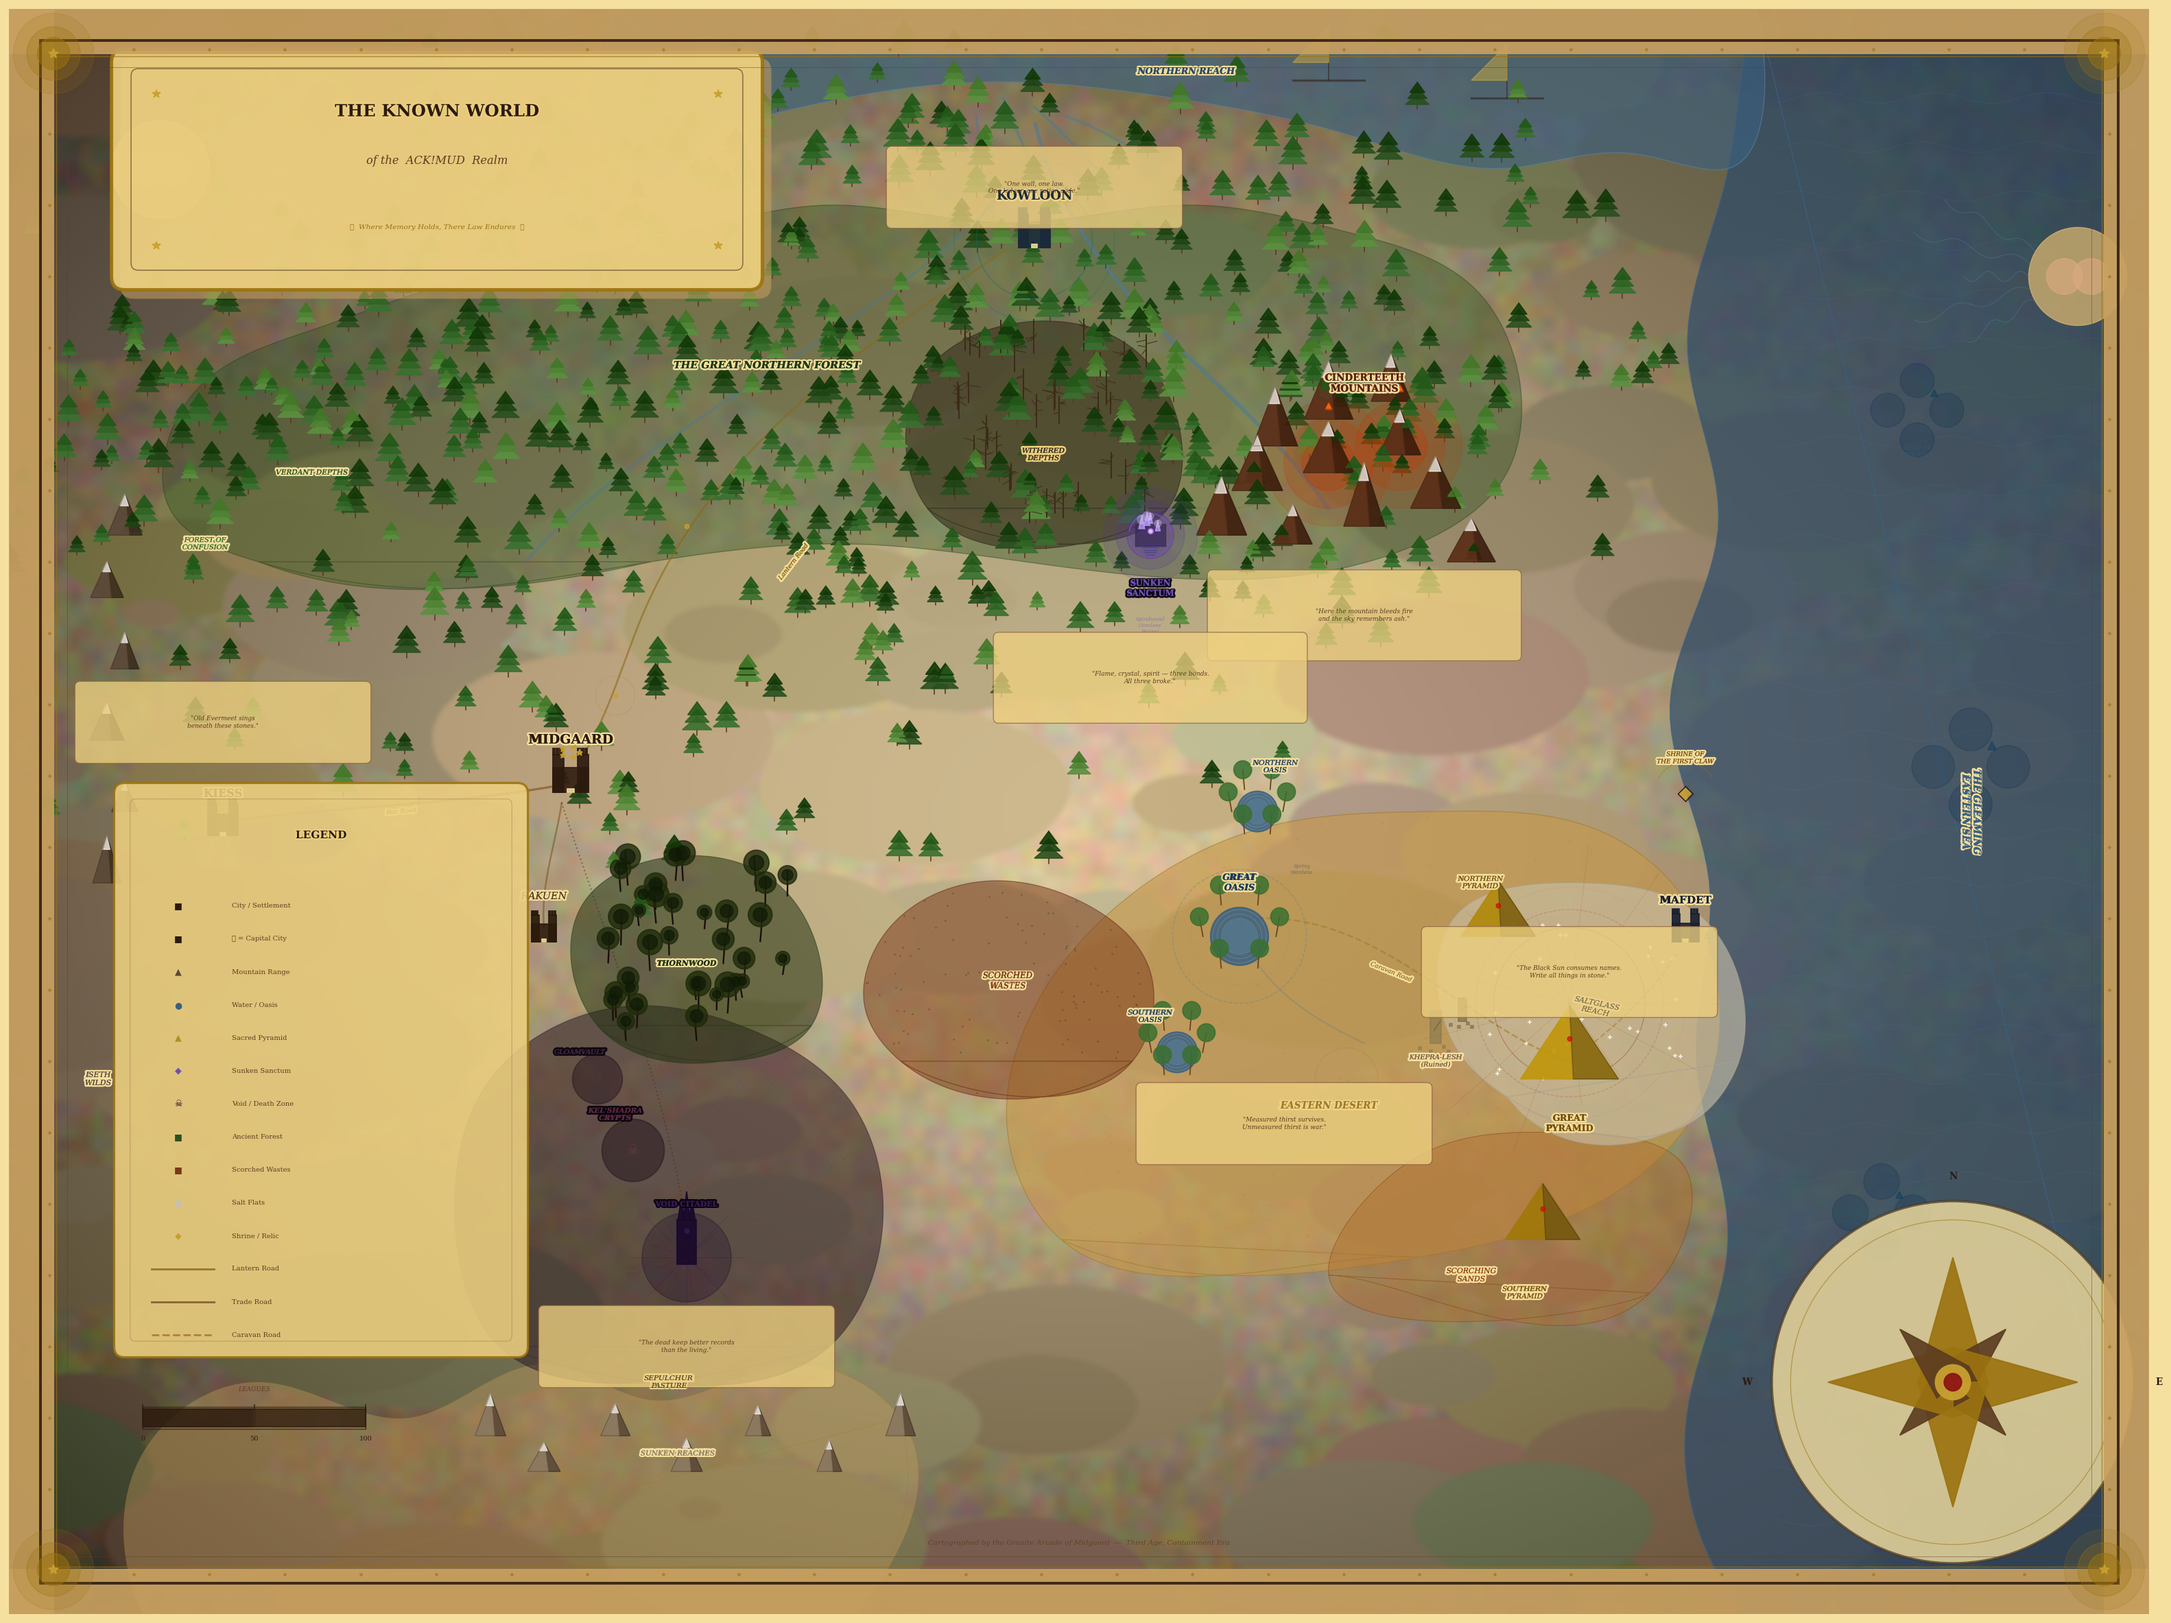
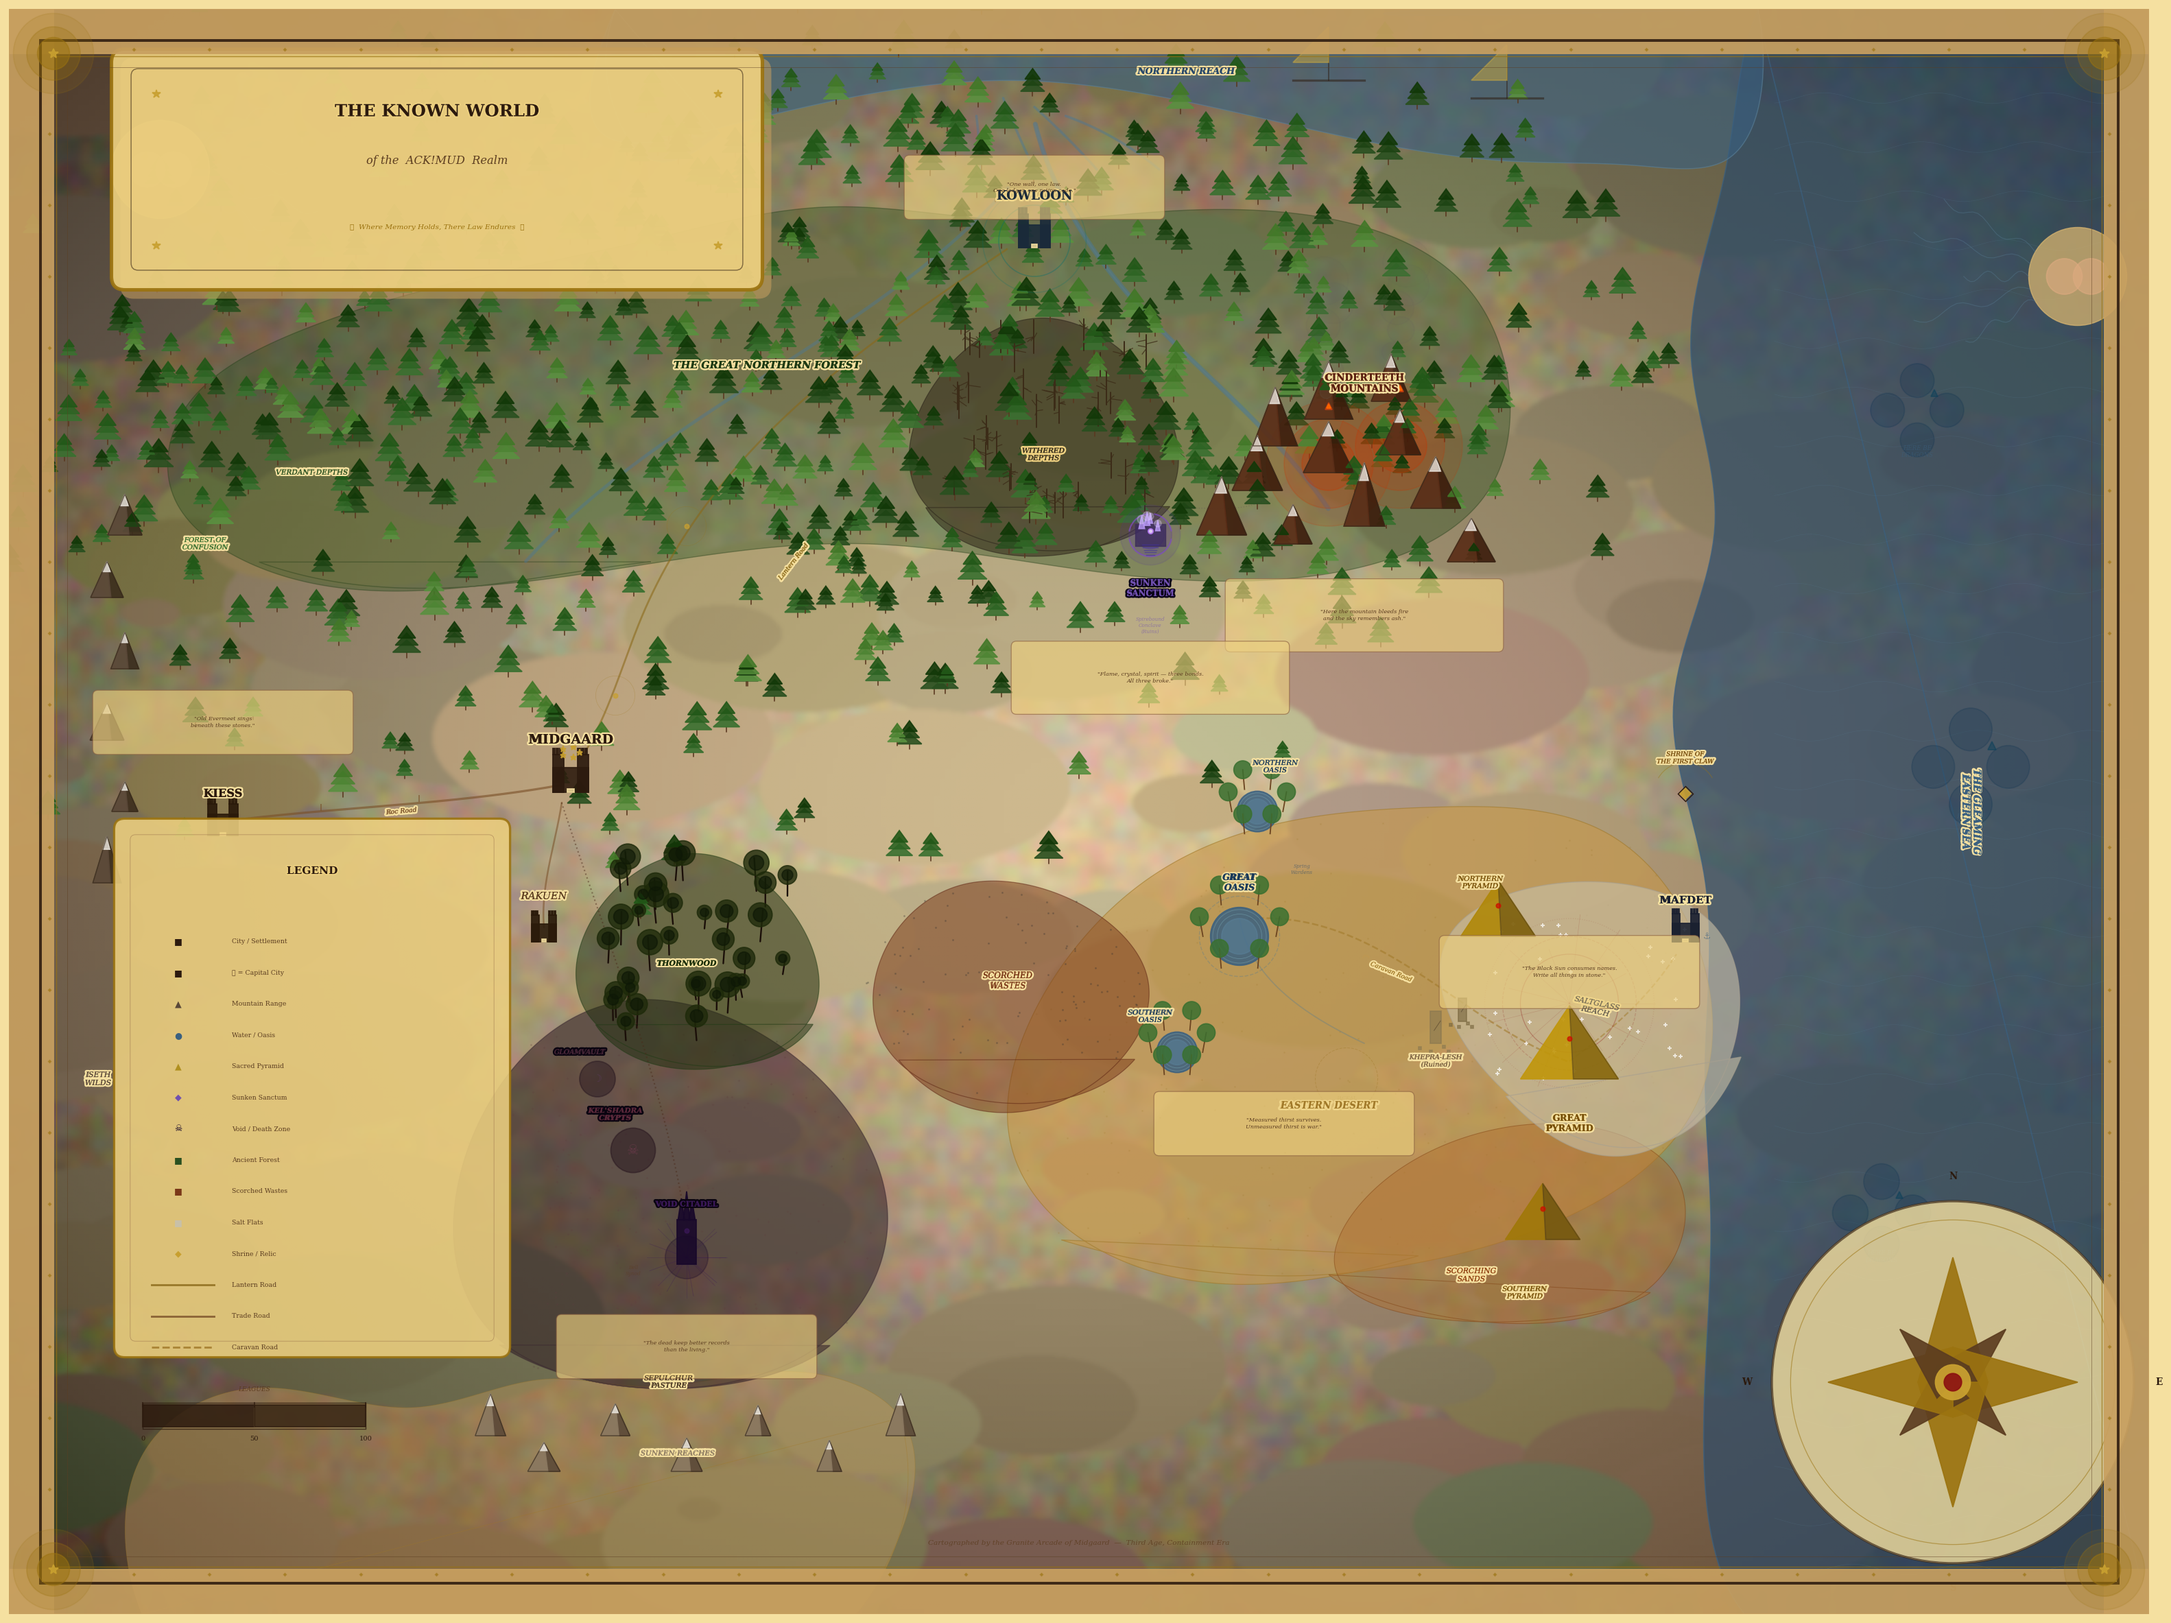
Apply visual polish fixes to world map generator
- Increase spline tension on terrain fills to preserve geographic shapes
- Reduce oversized glow halos (void citadel, pyramids, Sanctum, deepwell)
- Tighten Neon Covenant rings on Kowloon, Black Sun Shard corona
- Compact legend and lore scroll boxes
- Increase river line widths for visibility
- Improve mountain outline weight

https://claude.ai/code/session_01DAjEaRhYw3wve2juJ6T1aR

diff --git a/docs/generate_world_map.py b/docs/generate_world_map.py
@@ -231,7 +231,7 @@ def mountain(ax, cx, cy, h=5.0, w=4.5, snow_frac=0.28, zorder=11,
     # Outline
     ax.add_patch(plt.Polygon([peak, left, right],
                               fill=False, edgecolor=MTN_DARK,
-                              linewidth=0.5, alpha=0.5, zorder=zorder+2))
+                              linewidth=0.8, alpha=0.7, zorder=zorder+2))
 
 def mountain_range(ax, peaks, base_h=5.0, base_w=4.5, scatter=True,
                    zorder=11, **kw):
@@ -480,7 +480,7 @@ def compass_rose(ax, cx, cy, size=9):
         ly = cy + (size*1.65) * math.cos(math.radians(ang))
         ax.text(lx, ly, label, fontsize=7.5, fontweight='bold',
                 color=INK, ha='center', va='center',
-                fontfamily='serif', zorder=33)
+                fontfamily='DejaVu Serif', zorder=33)
     # Center jewel
     ax.add_patch(plt.Circle((cx,cy), size*0.14,
                              color=GOLD_LT, alpha=0.95, zorder=34))
@@ -536,22 +536,22 @@ def label(ax, x, y, text, size=7, col=INK, style='normal', weight='normal',
     oc = outline_col if outline_col else PARCH_PALE
     ax.text(x, y, text, fontsize=size, color=col, style=style,
             fontweight=weight, rotation=rot, zorder=zorder-1,
-            ha=ha, va=va, fontfamily='serif',
+            ha=ha, va=va, fontfamily='DejaVu Serif',
             path_effects=[pe.withStroke(linewidth=2.8, foreground=oc)])
     ax.text(x, y, text, fontsize=size, color=col, style=style,
             fontweight=weight, rotation=rot, zorder=zorder,
-            ha=ha, va=va, fontfamily='serif')
+            ha=ha, va=va, fontfamily='DejaVu Serif')
 
-def lore_scroll(ax, cx, cy, w, h, text, text_size=5.0, col=INK_FADED,
+def lore_scroll(ax, cx, cy, w, h, text, text_size=4.5, col=INK_FADED,
                 bg=PARCH_LT, edge=INK_LIGHT, zorder=22):
     """Small lore-quote scroll box."""
     ax.add_patch(FancyBboxPatch((cx-w/2, cy-h/2), w, h,
                   boxstyle='round,pad=0.6',
                   facecolor=bg, edgecolor=edge,
-                  linewidth=0.7, alpha=0.78, zorder=zorder-1))
+                  linewidth=0.7, alpha=0.65, zorder=zorder-1))
     ax.text(cx, cy, text, fontsize=text_size, color=col,
             ha='center', va='center', style='italic',
-            fontfamily='serif', zorder=zorder,
+            fontfamily='DejaVu Serif', zorder=zorder,
             wrap=True, multialignment='center')
 
 # ═══════════════════════════════════════════════════════════
@@ -609,7 +609,7 @@ fill_region(ax, north_sea_pts, SEA_MID, alpha=0.62, edge_color=SEA_LT,
 
 # Main river from Cinderteeth → Kowloon delta
 river_main = [(148,124),(142,131),(136,138),(128,145),(122,152),(118,160),(115,167)]
-draw_smooth_line(ax, river_main, RIVER_COL, lw=3.2, alpha=0.50, zorder=6)
+draw_smooth_line(ax, river_main, RIVER_COL, lw=3.8, alpha=0.50, zorder=6)
 draw_smooth_line(ax, river_main, SEA_LT, lw=1.4, alpha=0.30, zorder=7)
 
 # Delta fingers
@@ -620,7 +620,7 @@ for dx, dy_end in [(-9,168),(-3,170),(4,169),(11,168)]:
 
 # Western forest river
 west_river = [(58,118),(66,126),(78,134),(92,144),(104,152),(112,160)]
-draw_smooth_line(ax, west_river, RIVER_COL, lw=2.2, alpha=0.42, zorder=6)
+draw_smooth_line(ax, west_river, RIVER_COL, lw=2.6, alpha=0.42, zorder=6)
 
 # Small tributary (oasis → desert edge)
 draw_smooth_line(ax,
@@ -793,19 +793,19 @@ ruin_sym(ax, 163, 66.5, size=1.3, col='#7A6840', zorder=11)
 void_citadel_sym(ax, 76, 40, size=2.0, zorder=14)
 
 # Kel'Shadra crypts skull mark
-ax.add_patch(plt.Circle((70,52), 3.5, color=CRYPT_COL, alpha=0.55, zorder=12))
+ax.add_patch(plt.Circle((70,52), 2.5, color=CRYPT_COL, alpha=0.55, zorder=12))
 ax.text(70, 52, '☠', color='#6A3A4A', fontsize=11, ha='center', va='center',
         alpha=0.80, zorder=13)
 
 # Gloamvault
-ax.add_patch(plt.Circle((66,60), 2.8, color='#281820', alpha=0.50, zorder=12))
+ax.add_patch(plt.Circle((66,60), 2.0, color='#281820', alpha=0.50, zorder=12))
 ax.text(66, 60, '☽', color='#5A3A5A', fontsize=8, ha='center', va='center',
         alpha=0.75, zorder=13)
 
 # Crypt connecting crack-lines
 for ang in np.linspace(0,2*math.pi,9)[:-1]:
-    ex = 76 + 6.5*math.cos(ang)
-    ey = 40 + 6.5*math.sin(ang)
+    ex = 76 + 4.5*math.cos(ang)
+    ey = 40 + 4.5*math.sin(ang)
     ax.plot([76, ex], [40, ey], color=VOID_LT,
             linewidth=0.45, alpha=0.25, zorder=12)
 
@@ -897,7 +897,7 @@ for sx, sy, scale in [(210,45,1.0),(220,95,1.2),(214,135,0.95)]:
             markersize=int(6.5*scale), alpha=0.50, zorder=8)
     ax.text(sx, sy-scale*5.5, 'HERE BE\nDRAGONS',
             fontsize=4.8, color=SEA_MID, ha='center', style='italic',
-            fontfamily='serif', alpha=0.50, zorder=8)
+            fontfamily='DejaVu Serif', alpha=0.50, zorder=8)
 
 # Sailing ship in northern sea
 for shx, shy in [(148,172),(168,170)]:
@@ -991,32 +991,32 @@ label(ax, 155,72,  'Caravan Road', size=5.0, col=DESERT_BRN, style='italic', rot
 ax.add_patch(plt.Circle((150,60), 3.5, fill=False, edgecolor=DESERT_BRN,
                           linewidth=0.6, alpha=0.35, linestyle='--', zorder=10))
 ax.text(150, 57, 'JACKAL\nSYNOD', fontsize=4.2, color=DESERT_BRN,
-        ha='center', style='italic', fontfamily='serif', alpha=0.60, zorder=11)
+        ha='center', style='italic', fontfamily='DejaVu Serif', alpha=0.60, zorder=11)
 
 ax.text(145, 83, 'Spring\nWardens', fontsize=4.0, color=SEA_DEEP,
-        ha='center', style='italic', fontfamily='serif', alpha=0.55, zorder=11)
+        ha='center', style='italic', fontfamily='DejaVu Serif', alpha=0.55, zorder=11)
 
 ax.text(70, 38, 'Bell\nSynod', fontsize=4.0, color=INK_FADED,
-        ha='center', style='italic', fontfamily='serif', alpha=0.50, zorder=11)
+        ha='center', style='italic', fontfamily='DejaVu Serif', alpha=0.50, zorder=11)
 
 ax.text(128, 110, 'Spirebound\nConclave\n(Ruins)', fontsize=4.0,
-        ha='center', style='italic', fontfamily='serif', alpha=0.55,
+        ha='center', style='italic', fontfamily='DejaVu Serif', alpha=0.55,
         zorder=11, color='#7050B0')
 
 # ═══════════════════════════════════════════════════════════
 #  LORE SCROLLS
 # ═══════════════════════════════════════════════════════════
 lore_scrolls = [
-    (152, 112, 34, 9, '"Here the mountain bleeds fire\nand the sky remembers ash."'),
-    (115, 160, 32, 8, '"One wall, one law.\nOne ledger, one ration code."'),
-    (175, 72,  32, 9, '"The Black Sun consumes names.\nWrite all things in stone."'),
-    (76,  30,  32, 8, '"The dead keep better records\nthan the living."'),
-    (24, 100,  32, 8, '"Old Evermeet sings\nbeneath these stones."'),
-    (143, 55,  32, 8, '"Measured thirst survives.\nUnmeasured thirst is war."'),
-    (128, 105, 34, 9, '"Flame, crystal, spirit — three bonds.\nAll three broke."'),
+    (152, 112, 30, 7, '"Here the mountain bleeds fire\nand the sky remembers ash."'),
+    (115, 160, 28, 6, '"One wall, one law.\nOne ledger, one ration code."'),
+    (175, 72,  28, 7, '"The Black Sun consumes names.\nWrite all things in stone."'),
+    (76,  30,  28, 6, '"The dead keep better records\nthan the living."'),
+    (24, 100,  28, 6, '"Old Evermeet sings\nbeneath these stones."'),
+    (143, 55,  28, 6, '"Measured thirst survives.\nUnmeasured thirst is war."'),
+    (128, 105, 30, 7, '"Flame, crystal, spirit — three bonds.\nAll three broke."'),
 ]
 for lx, ly, lw, lh, lt in lore_scrolls:
-    lore_scroll(ax, lx, ly, lw, lh, lt, text_size=5.0)
+    lore_scroll(ax, lx, ly, lw, lh, lt, text_size=4.5)
 
 # ═══════════════════════════════════════════════════════════
 #  TITLE CARTOUCHE
@@ -1050,21 +1050,21 @@ for fx, fy in [(cx_cart+3.5, cy_cart+3.5),
 mid_cart = cx_cart + cw_cart/2
 ax.text(mid_cart, cy_cart+ch_cart-5.5, 'THE KNOWN WORLD',
         fontsize=13.5, fontweight='bold', color=INK, ha='center',
-        va='center', fontfamily='serif', zorder=43,
+        va='center', fontfamily='DejaVu Serif', zorder=43,
         path_effects=[pe.withStroke(linewidth=2.5, foreground=PARCH_LT)])
 ax.text(mid_cart, cy_cart+ch_cart-11, 'of the  ACK!MUD  Realm',
         fontsize=9.0, color=INK_FADED, ha='center', va='center',
-        fontfamily='serif', style='italic', zorder=43)
+        fontfamily='DejaVu Serif', style='italic', zorder=43)
 ax.text(mid_cart, cy_cart+5.5,
         '\u2741  Where Memory Holds, There Law Endures  \u2741',
         fontsize=5.8, color=GOLD, ha='center', va='center',
-        fontfamily='serif', style='italic', zorder=43)
+        fontfamily='DejaVu Serif', style='italic', zorder=43)
 
 # ═══════════════════════════════════════════════════════════
 #  LEGEND
 # ═══════════════════════════════════════════════════════════
 lx_leg, ly_leg = 13, 30
-lw_leg, lh_leg = 44, 62
+lw_leg, lh_leg = 42, 58
 
 ax.add_patch(FancyBboxPatch(
     (lx_leg, ly_leg), lw_leg, lh_leg,
@@ -1077,7 +1077,7 @@ ax.add_patch(FancyBboxPatch(
 
 ax.text(lx_leg+lw_leg/2, ly_leg+lh_leg-5,
         'LEGEND', fontsize=8.5, fontweight='bold', color=INK,
-        ha='center', fontfamily='serif', zorder=42,
+        ha='center', fontfamily='DejaVu Serif', zorder=42,
         path_effects=[pe.withStroke(linewidth=2, foreground=PARCH_LT)])
 
 legend_items = [
@@ -1097,7 +1097,7 @@ legend_items = [
     ('- -', DESERT_BRN,'Caravan Road'),
 ]
 for i, (sym, col, lbl) in enumerate(legend_items):
-    iy = ly_leg + lh_leg - 13 - i * 3.7
+    iy = ly_leg + lh_leg - 13 - i * 3.5
     if sym in ('—', '- -'):
         ls = '--' if '- -' in sym else '-'
         ax.plot([lx_leg+3, lx_leg+10], [iy+0.4, iy+0.4],
@@ -1105,8 +1105,8 @@ for i, (sym, col, lbl) in enumerate(legend_items):
     else:
         ax.text(lx_leg+6, iy+0.4, sym, fontsize=7, color=col,
                 ha='center', va='center', zorder=42)
-    ax.text(lx_leg+12, iy+0.4, lbl, fontsize=5.5, color=INK_FADED,
-            va='center', fontfamily='serif', zorder=42)
+    ax.text(lx_leg+12, iy+0.4, lbl, fontsize=5.2, color=INK_FADED,
+            va='center', fontfamily='DejaVu Serif', zorder=42)
 
 # ═══════════════════════════════════════════════════════════
 #  SCALE BAR
@@ -1114,17 +1114,17 @@ for i, (sym, col, lbl) in enumerate(legend_items):
 sb_x, sb_y = 15, 22
 for xi, col_ in [(0, INK),(12.5, PARCH_LT),(12.5, INK)]:
     ax.add_patch(mpatches.Rectangle(
-        (sb_x+xi, sb_y-1), 12.5, 2.0,
+        (sb_x+xi, sb_y-1), 12.5, 2.5,
         color=col_, alpha=0.85 if col_ == INK else 0.70, zorder=41))
 ax.add_patch(mpatches.Rectangle(
-    (sb_x, sb_y-1.2), 25, 2.4,
+    (sb_x, sb_y-1.2), 25, 2.9,
     fill=False, edgecolor=INK, linewidth=0.8, alpha=0.75, zorder=42))
 for tick_x, tick_lbl in [(sb_x,'0'),(sb_x+12.5,'50'),(sb_x+25,'100')]:
-    ax.plot(tick_x, sb_y+1.2, '|', color=INK, markersize=4, alpha=0.75, zorder=42)
+    ax.plot(tick_x, sb_y+1.45, '|', color=INK, markersize=4, alpha=0.75, zorder=42)
     ax.text(tick_x, sb_y-2.5, tick_lbl, fontsize=5.5, color=INK,
-            ha='center', fontfamily='serif', zorder=43)
+            ha='center', fontfamily='DejaVu Serif', zorder=43)
 ax.text(sb_x+12.5, sb_y+3.0, 'LEAGUES', fontsize=5.0, color=INK_FADED,
-        ha='center', style='italic', fontfamily='serif', zorder=43)
+        ha='center', style='italic', fontfamily='DejaVu Serif', zorder=43)
 
 # ═══════════════════════════════════════════════════════════
 #  COMPASS ROSE
@@ -1140,7 +1140,7 @@ ax.text(W/2, 7.8,
         'Cartographed by the Granite Arcade of Midgaard'
         '  \u2014  Third Age, Containment Era',
         fontsize=5.8, color=INK_FADED, ha='center', style='italic',
-        fontfamily='serif', alpha=0.80, zorder=65)
+        fontfamily='DejaVu Serif', alpha=0.80, zorder=65)
 
 # ═══════════════════════════════════════════════════════════
 #  SAVE
